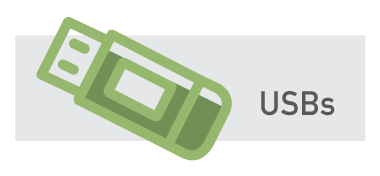
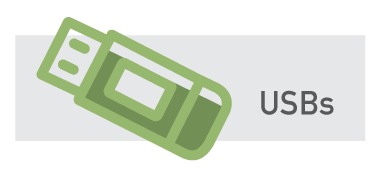
updated font colors

Changed region(s): [[0.6947, 0.5114, 0.8974, 0.6534]]

diff --git a/assets/css/style.css b/assets/css/style.css
@@ -196,6 +196,7 @@ p {
   font-family: "DIN-Neuzeit-Grotesk-Light";
   margin-top: 0px;
   width: 250px;
+  color: #7c7c7c;
 }
 .caseStudy-left h2 {
   word-spacing: -10px;
@@ -345,6 +346,7 @@ p {
 .testimonial {
   max-width: 600px;
   font-family: "DIN-Neuzeit-Grotesk-Light";
+  color: #414042;
 }
 
 .testimonial-blue {
@@ -387,6 +389,7 @@ p {
   text-align: center;
   max-width: 700px;
   margin: 0px auto 25px auto;
+  color: #414042;
 }
 
 .client-logo {
